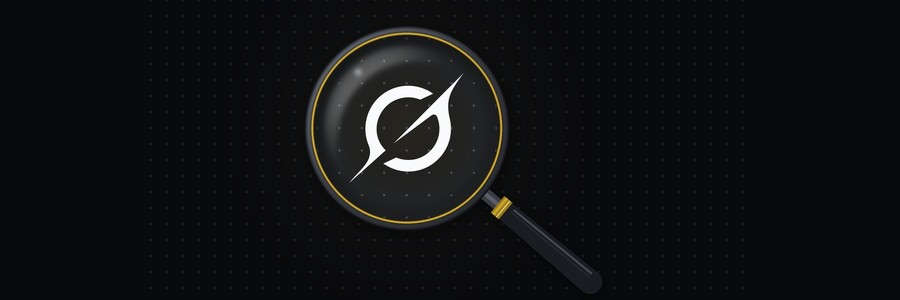
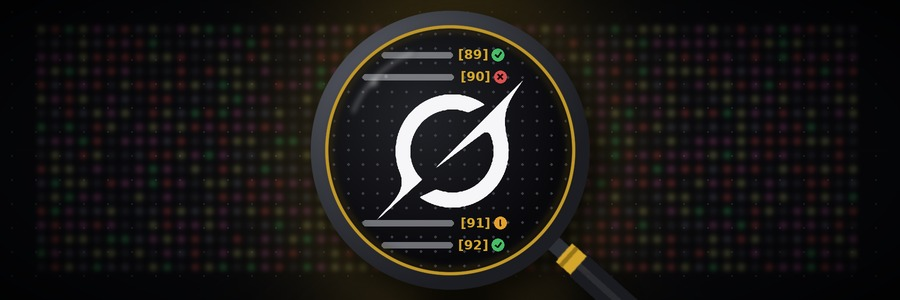
Grokipedia card: verdict-ledger image (matches site)

diff --git a/README.md b/README.md
@@ -60,7 +60,7 @@ The long work is the study and the book. Sourced records, a labeled belief model
 
 <table>
   <tr>
-    <td><a href="https://neuresthetics.github.io/grokipedia/"><img src="img/wide-grokipedia.jpg" width="100%" alt="Grokipedia Audit"></a></td>
+    <td><a href="https://neuresthetics.github.io/grokipedia/"><img src="img/wide-grokipedia.jpg" width="100%" alt="The Grok logo under a magnifying glass, with footnote markers [89] to [92] each marked supported, failed or unclear, over a grid of colored verdict dots"></a></td>
   </tr>
   <tr>
     <td>
